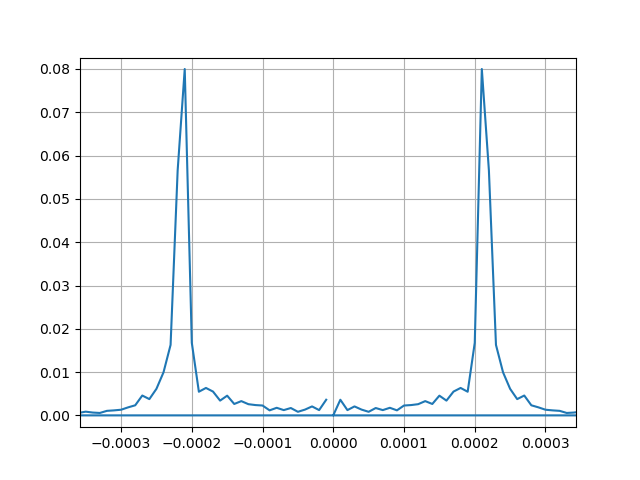
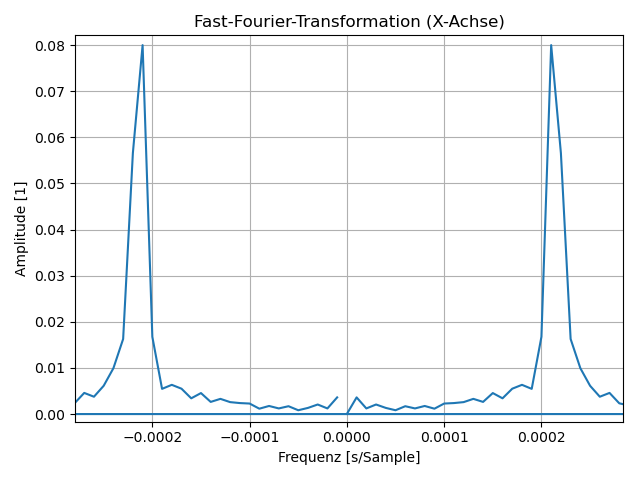
Updates FFT-graphs and added deformation analysis

diff --git a/übung4/schwingungsanalyse_main.py b/übung4/schwingungsanalyse_main.py
@@ -36,7 +36,7 @@ from scipy import signal
 
 verbose = True  # Shows more debugging information
 fix_steigung = False  # Disregards permanent sensor changes
-show_graphs = True  # If disabled, the Plots will not be shown.
+show_graphs = False  # If disabled, the Plots will not be shown.
 
 
 # Functions
@@ -196,16 +196,28 @@ def run_analysis(input_file):
         plt.plot(xf_1, 2.0/N * np.abs(yf_1[0:N//2]))
         # plt.xlim(0, 0.0001)
         plt.grid()
+        plt.xlabel("Frequenz [s/Sample]")
+        plt.ylabel("Amplitude [1]")
+        plt.title("Fast-Fourier-Transformation (X-Achse)")
+        plt.tight_layout()
         plt.show()
 
         plt.plot(xf_2, 2.0/N * np.abs(yf_2[0:N//2]))
         # plt.xlim(0, 0.0001)
         plt.grid()
+        plt.xlabel("Frequenz [s/Sample]")
+        plt.ylabel("Amplitude [1]")
+        plt.title("Fast-Fourier-Transformation (Y-Achse)")
+        plt.tight_layout()
         plt.show()
 
         plt.plot(xf_3, 2.0/N * np.abs(yf_3[0:N//2]))
         # plt.xlim(0, 0.0001)
         plt.grid()
+        plt.xlabel("Frequenz [s/Sample]")
+        plt.ylabel("Amplitude [1]")
+        plt.title("Fast-Fourier-Transformation (Z-Achse)")
+        plt.tight_layout()
         plt.show()
         
     if(verbose):
